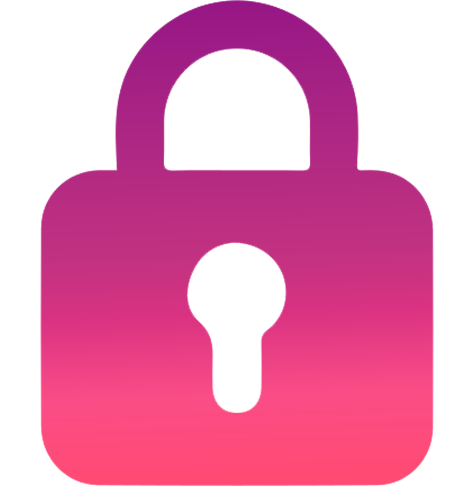
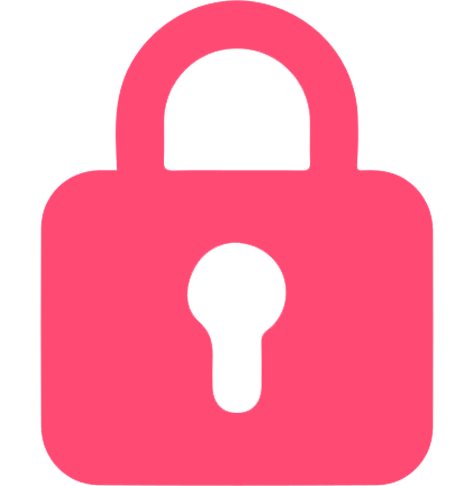
removendo caractere ^ e atualizando ícone do site

diff --git a/script.js b/script.js
@@ -3,7 +3,7 @@ const senhaCaixa = document.getElementById("senha");
 const maiusculo = "ABCDEFGHIJKLMNOPQRSTUVWXYZ";
 const minusculo = "abcdefghijklmnopqrstuvwxyz";
 const numeros = "0123456789";
-const simbolos = "!@#$%^&*()_+~`|}{[]:;?><,./-=";
+const simbolos = "!@#$%&*()_+~`|}{[]:;?><,./-=";
 
 const todosCaracteres = maiusculo + minusculo + numeros + simbolos;
 
